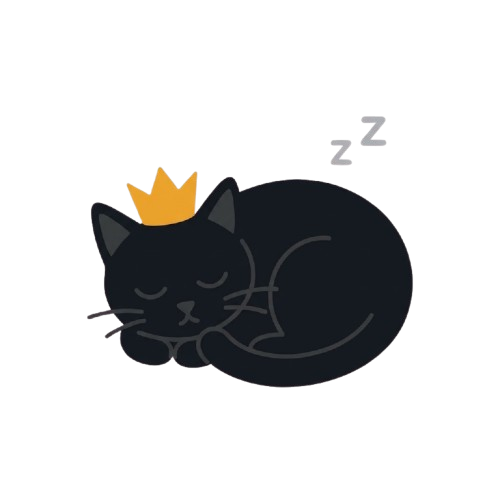
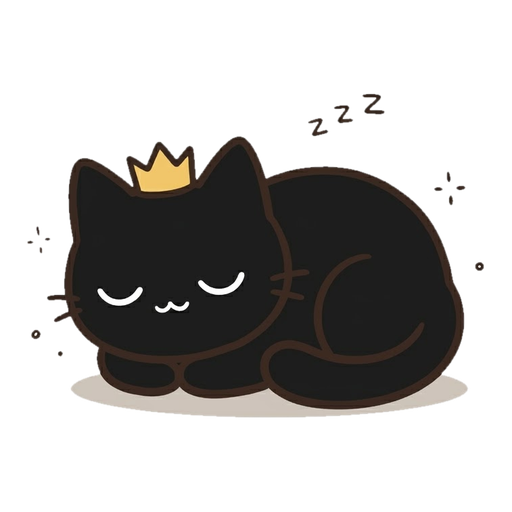
Ilustraciones de Tessa y saludo animado de Miau
Sustituye las poses de Miau y añade comprando y triste; saludo con 4
fotogramas (respeta reducir movimiento). Dibujos propios en pantallas
vacías, zonas de Mi cocina, onboarding y avisos de caducidad o error.

Claude-Session: https://claude.ai/code/session_01WRWapEtUiYWDaKx8JeCjKR

diff --git a/apps/prezhome/lib/widgets/miau_character.dart b/apps/prezhome/lib/widgets/miau_character.dart
@@ -1,8 +1,19 @@
 import 'package:flutter/material.dart';
 
+import '../theme/app_motion.dart';
+
 /// Estados de ánimo de Presidente Miau. Cada uno mapea a una imagen.
 /// Si aún no tienes la imagen específica, cae a la imagen por defecto.
-enum MiauMood { greeting, celebrating, sleeping, cooking, curious, neutral }
+enum MiauMood {
+  greeting,
+  celebrating,
+  sleeping,
+  cooking,
+  curious,
+  shopping,
+  worried,
+  neutral,
+}
 
 /// Presidente Miau como "personaje": muestra la pose según el contexto y
 /// aparece con una animación sutil (escala + leve flotación) para dar vida.
@@ -31,8 +42,18 @@ class MiauCharacter extends StatefulWidget {
     MiauMood.sleeping: 'assets/images/miau_durmiendo.png',
     MiauMood.cooking: 'assets/images/miau_cocinando.png',
     MiauMood.curious: 'assets/images/miau_pensando.png',
+    MiauMood.shopping: 'assets/images/miau_comprando.png',
+    MiauMood.worried: 'assets/images/miau_triste.png',
     MiauMood.neutral: 'assets/images/miau_saludando.png',
   };
+
+  /// Fotogramas del saludo (parpadea y mueve la pata). Mismo encuadre.
+  static const List<String> _greetingFrames = [
+    'assets/images/miau_saludo_1.png',
+    'assets/images/miau_saludo_2.png',
+    'assets/images/miau_saludo_3.png',
+    'assets/images/miau_saludo_4.png',
+  ];
 
   @override
   State<MiauCharacter> createState() => _MiauCharacterState();
@@ -42,6 +63,13 @@ class _MiauCharacterState extends State<MiauCharacter>
     with TickerProviderStateMixin {
   late final AnimationController _entry;
   late final AnimationController _floatCtrl;
+  // Ciclo del saludo: los 4 fotogramas al principio y luego quieto.
+  late final AnimationController _frameCtrl = AnimationController(
+    vsync: this,
+    duration: const Duration(milliseconds: 3200),
+  );
+
+  bool get _animatesFrames => widget.mood == MiauMood.greeting;
 
   @override
   void initState() {
@@ -58,7 +86,22 @@ class _MiauCharacterState extends State<MiauCharacter>
   }
 
   @override
+  void didChangeDependencies() {
+    super.didChangeDependencies();
+    if (!_animatesFrames) return;
+    for (final f in MiauCharacter._greetingFrames) {
+      precacheImage(AssetImage(f), context);
+    }
+    if (AppMotion.reduceMotionOf(context)) {
+      _frameCtrl.stop();
+    } else if (!_frameCtrl.isAnimating) {
+      _frameCtrl.repeat();
+    }
+  }
+
+  @override
   void dispose() {
+    _frameCtrl.dispose();
     _entry.dispose();
     _floatCtrl.dispose();
     super.dispose();
@@ -71,7 +114,24 @@ class _MiauCharacterState extends State<MiauCharacter>
 
     // Poses = PNG transparente -> se muestran limpias (contain, sin recorte).
     // Base = foto .jpg -> se recorta en cuadrado redondeado.
-    final Widget image = posePath != null
+    final Widget image = _animatesFrames
+        ? AnimatedBuilder(
+            animation: _frameCtrl,
+            builder: (context, _) {
+              // Cada fotograma dura 4 % del ciclo (~130 ms); el resto, el 1.º.
+              final i = (_frameCtrl.value / 0.04).floor();
+              final frames = MiauCharacter._greetingFrames;
+              return Image.asset(
+                frames[i < frames.length ? i : 0],
+                width: widget.size,
+                height: widget.size,
+                fit: BoxFit.contain,
+                gaplessPlayback: true,
+                errorBuilder: (context, error, stack) => _baseImage(),
+              );
+            },
+          )
+        : posePath != null
         ? Image.asset(
             posePath,
             width: widget.size,

diff --git a/apps/prezhome/lib/onboarding/onboarding_flow.dart b/apps/prezhome/lib/onboarding/onboarding_flow.dart
@@ -8,6 +8,7 @@ import '../models/supermarket.dart';
 import '../services/offline_provider.dart';
 import '../theme/app_motion.dart';
 import '../theme/app_theme.dart';
+import '../widgets/miau_character.dart';
 import 'onboarding_widgets.dart';
 
 /// Primer arranque: bienvenida + cuestionario + perfil de hogar. Las
@@ -89,6 +90,7 @@ class _OnboardingFlowState extends State<OnboardingFlow> {
         return _single<HousingType>(
           section: 'Tu casa',
           title: '¿Dónde vives?',
+          illustration: 'assets/images/onb_hogar.png',
           subtitle: 'Así adaptamos tareas y recordatorios a tu hogar.',
           values: HousingType.values,
           selected: _a.housing,
@@ -112,6 +114,7 @@ class _OnboardingFlowState extends State<OnboardingFlow> {
           step: 2,
           total: _questions,
           title: '¿Cuántas personas vivís?',
+          illustration: 'assets/images/onb_personas.png',
           subtitle: 'Para calcular raciones, la compra y el reparto de tareas.',
           onBack: _back,
           onContinue: _next,
@@ -126,6 +129,7 @@ class _OnboardingFlowState extends State<OnboardingFlow> {
           step: 3,
           total: _questions,
           title: '¿Qué quieres quitarte de la cabeza?',
+          illustration: 'assets/images/onb_cabeza.png',
           subtitle: 'Elige todo lo que quieras. Lo demás quedará escondido.',
           onBack: _back,
           onContinue: _a.goals.isEmpty ? null : _next,
@@ -179,6 +183,7 @@ class _OnboardingFlowState extends State<OnboardingFlow> {
           step: 5,
           total: _questions,
           title: '¿Dónde compras?',
+          illustration: 'assets/images/onb_compra.png',
           subtitle:
               'El primero será tu súper principal: las recetas usarán '
               'productos fáciles de encontrar allí.',
@@ -245,8 +250,10 @@ class _OnboardingFlowState extends State<OnboardingFlow> {
     required Color Function(T) color,
     required void Function(T) onSelect,
     String continueLabel = 'Continuar',
+    String? illustration,
   }) {
     return QuestionScaffold(
+      illustration: illustration,
       section: section,
       step: _page,
       total: _questions,
@@ -361,6 +368,7 @@ class _IntroPageState extends State<_IntroPage> {
             child: Column(
               children: [
                 const Spacer(flex: 3),
+                const MiauCharacter(mood: MiauMood.greeting, size: 120),
                 Text(
                   'PrezHome',
                   style: TextStyle(

diff --git a/apps/prezhome/test/miau_character_test.dart b/apps/prezhome/test/miau_character_test.dart
@@ -1,0 +1,38 @@
+import 'package:flutter/material.dart';
+import 'package:flutter_test/flutter_test.dart';
+import 'package:prezhome/widgets/miau_character.dart';
+
+String? _shownAsset(WidgetTester tester) {
+  final image = tester.widget<Image>(find.byType(Image));
+  return (image.image as AssetImage).assetName;
+}
+
+void main() {
+  testWidgets('el saludo pasa por los fotogramas y vuelve al primero', (
+    tester,
+  ) async {
+    await tester.pumpWidget(
+      const MaterialApp(home: MiauCharacter(mood: MiauMood.greeting)),
+    );
+    expect(_shownAsset(tester), 'assets/images/miau_saludo_1.png');
+    await tester.pump(const Duration(milliseconds: 140));
+    expect(_shownAsset(tester), 'assets/images/miau_saludo_2.png');
+    await tester.pump(const Duration(milliseconds: 1000));
+    expect(_shownAsset(tester), 'assets/images/miau_saludo_1.png');
+  });
+
+  testWidgets('con reducir movimiento el saludo se queda quieto', (
+    tester,
+  ) async {
+    await tester.pumpWidget(
+      const MediaQuery(
+        data: MediaQueryData(disableAnimations: true),
+        child: MaterialApp(
+          home: MiauCharacter(mood: MiauMood.greeting, float: false),
+        ),
+      ),
+    );
+    await tester.pump(const Duration(milliseconds: 140));
+    expect(_shownAsset(tester), 'assets/images/miau_saludo_1.png');
+  });
+}

diff --git a/apps/prezhome/lib/widgets/empty_state.dart b/apps/prezhome/lib/widgets/empty_state.dart
@@ -11,6 +11,7 @@ class EmptyState extends StatelessWidget {
     required this.title,
     this.message,
     this.mood = MiauMood.curious,
+    this.image,
     this.actionLabel,
     this.actionIcon,
     this.onAction,
@@ -21,6 +22,10 @@ class EmptyState extends StatelessWidget {
   final String title;
   final String? message;
   final MiauMood mood;
+
+  /// Ilustración propia de esta pantalla vacía (assets/images/vacio_*.png);
+  /// si no hay, sale Miau con [mood].
+  final String? image;
   final String? actionLabel;
   final IconData? actionIcon;
   final VoidCallback? onAction;
@@ -38,7 +43,10 @@ class EmptyState extends StatelessWidget {
         child: Column(
           mainAxisSize: MainAxisSize.min,
           children: [
-            MiauCharacter(mood: mood, size: 112, float: true),
+            if (image != null)
+              Image.asset(image!, width: 160, height: 160)
+            else
+              MiauCharacter(mood: mood, size: 112, float: true),
             const SizedBox(height: AppSpacing.lg),
             Text(
               title,

diff --git a/apps/prezhome/lib/onboarding/onboarding_widgets.dart b/apps/prezhome/lib/onboarding/onboarding_widgets.dart
@@ -100,6 +100,7 @@ class QuestionScaffold extends StatelessWidget {
     required this.onBack,
     this.subtitle,
     this.continueLabel = 'Continuar',
+    this.illustration,
   });
 
   final String section;
@@ -111,6 +112,9 @@ class QuestionScaffold extends StatelessWidget {
   final VoidCallback? onContinue;
   final VoidCallback onBack;
   final String continueLabel;
+
+  /// Dibujo opcional encima de la pregunta (assets/images/onb_*.png).
+  final String? illustration;
 
   @override
   Widget build(BuildContext context) {
@@ -138,7 +142,11 @@ class QuestionScaffold extends StatelessWidget {
             ),
             const SizedBox(height: 8),
             StepProgress(step: step, total: total),
-            const SizedBox(height: 32),
+            SizedBox(height: illustration == null ? 32 : 12),
+            if (illustration != null) ...[
+              Image.asset(illustration!, height: 110),
+              const SizedBox(height: 12),
+            ],
             Text(
               title,
               textAlign: TextAlign.center,

diff --git a/apps/prezhome/lib/shopping_list_screen.dart b/apps/prezhome/lib/shopping_list_screen.dart
@@ -1706,6 +1706,7 @@ class _ShoppingListScreenState extends State<ShoppingListScreen> {
 
   Widget _emptyState() {
     return EmptyState(
+      mood: MiauMood.shopping,
       title: 'Tu lista está vacía',
       message: 'Escribe arriba lo que necesitas o trae lo del plan.',
       actionLabel: 'Desde el plan',
@@ -1776,12 +1777,12 @@ class _CompraCelebracionState extends State<_CompraCelebracion>
     final reduceMotion = AppMotion.reduceMotionOf(context);
     final animar = widget.celebrar && !reduceMotion;
 
-    final miau = animar
-        ? ScaleTransition(
-            scale: _scale,
-            child: const MiauCharacter(mood: MiauMood.celebrating, size: 72),
-          )
-        : const MiauCharacter(mood: MiauMood.celebrating, size: 72);
+    const carro = Image(
+      image: AssetImage('assets/images/vacio_compra.png'),
+      width: 72,
+      height: 72,
+    );
+    final miau = animar ? ScaleTransition(scale: _scale, child: carro) : carro;
 
     final tarjeta = Container(
       margin: const EdgeInsets.only(bottom: 16),

diff --git a/apps/prezhome/lib/widgets/kitchen/kitchen_zones_grid.dart b/apps/prezhome/lib/widgets/kitchen/kitchen_zones_grid.dart
@@ -187,7 +187,17 @@ class _ZoneTile extends StatelessWidget {
               children: [
                 Row(
                   children: [
-                    Icon(s.icon, color: s.fg, size: 20),
+                    if (isAll)
+                      Icon(s.icon, color: s.fg, size: 20)
+                    else
+                      // Ilustración de la zona: assets/images/zona_<etiqueta>.png
+                      Image.asset(
+                        'assets/images/zona_${z.zone.label.toLowerCase()}.png',
+                        width: 36,
+                        height: 36,
+                        errorBuilder: (_, _, _) =>
+                            Icon(s.icon, color: s.fg, size: 20),
+                      ),
                     const Spacer(),
                     Text(
                       '$count',

diff --git a/apps/prezhome/lib/recipes_screen.dart b/apps/prezhome/lib/recipes_screen.dart
@@ -307,7 +307,7 @@ class _RecipesScreenState extends State<RecipesScreen> {
 
           if (allRecipes.isEmpty) {
             return EmptyState(
-              mood: MiauMood.cooking,
+              image: 'assets/images/vacio_recetas.png',
               title: 'Aún no hay recetas',
               message: 'Crea la primera o pide ideas con lo que tienes.',
               actionLabel: 'Nueva receta',
@@ -839,7 +839,7 @@ class _ErrorState extends StatelessWidget {
         child: Column(
           mainAxisAlignment: MainAxisAlignment.center,
           children: [
-            Icon(Icons.cloud_off_rounded, size: 56, color: AppColors.woodDark),
+            const MiauCharacter(mood: MiauMood.worried, size: 110),
             const SizedBox(height: 16),
             Text(
               message,

diff --git a/apps/prezhome/lib/home_session_screen.dart b/apps/prezhome/lib/home_session_screen.dart
@@ -7,6 +7,7 @@ import 'login_screen.dart';
 import 'models/nutrition_profile.dart';
 import 'profile_wizard_screen.dart';
 import 'services/offline_provider.dart';
+import 'widgets/miau_character.dart';
 
 /// Resultado de evaluar el estado del usuario para decidir a donde llevarlo:
 /// si pertenece a un hogar y si su perfil nutricional esta completo.
@@ -149,6 +150,8 @@ class _ProfileLoadError extends StatelessWidget {
           child: Column(
             mainAxisSize: MainAxisSize.min,
             children: [
+              const MiauCharacter(mood: MiauMood.worried, size: 110),
+              const SizedBox(height: 16),
               const Text('No se pudo cargar tu perfil.'),
               const SizedBox(height: 16),
               ElevatedButton(

diff --git a/apps/prezhome/lib/tabs/home_tab.dart b/apps/prezhome/lib/tabs/home_tab.dart
@@ -1408,7 +1408,14 @@ class HomeTabState extends State<HomeTab> {
         child: Row(
           crossAxisAlignment: CrossAxisAlignment.start,
           children: [
-            _cardIconBox(Icons.event_busy, accent),
+            if (hasAlerts)
+              const MiauCharacter(
+                mood: MiauMood.worried,
+                size: 48,
+                float: false,
+              )
+            else
+              _cardIconBox(Icons.event_busy, accent),
             const SizedBox(width: AppSpacing.lg),
             Expanded(
               child: Column(

diff --git a/apps/prezhome/lib/tasks_screen.dart b/apps/prezhome/lib/tasks_screen.dart
@@ -569,7 +569,11 @@ class _TasksScreenState extends State<TasksScreen> {
       child: Column(
         mainAxisSize: MainAxisSize.min,
         children: [
-          const MiauCharacter(mood: MiauMood.curious, size: 120),
+          Image.asset(
+            'assets/images/vacio_tareas.png',
+            width: 160,
+            height: 160,
+          ),
           const SizedBox(height: 16),
           const Text(
             'No hay tareas todavía',

diff --git a/apps/prezhome/lib/inventory_screen.dart b/apps/prezhome/lib/inventory_screen.dart
@@ -620,6 +620,7 @@ class _InventoryScreenState extends State<InventoryScreen> {
           final items = snapshot.data ?? [];
           if (items.isEmpty) {
             return EmptyState(
+              image: 'assets/images/vacio_despensa.png',
               title: 'Tu despensa está vacía',
               message:
                   'Añade lo que tienes en casa o tacha la compra y '
